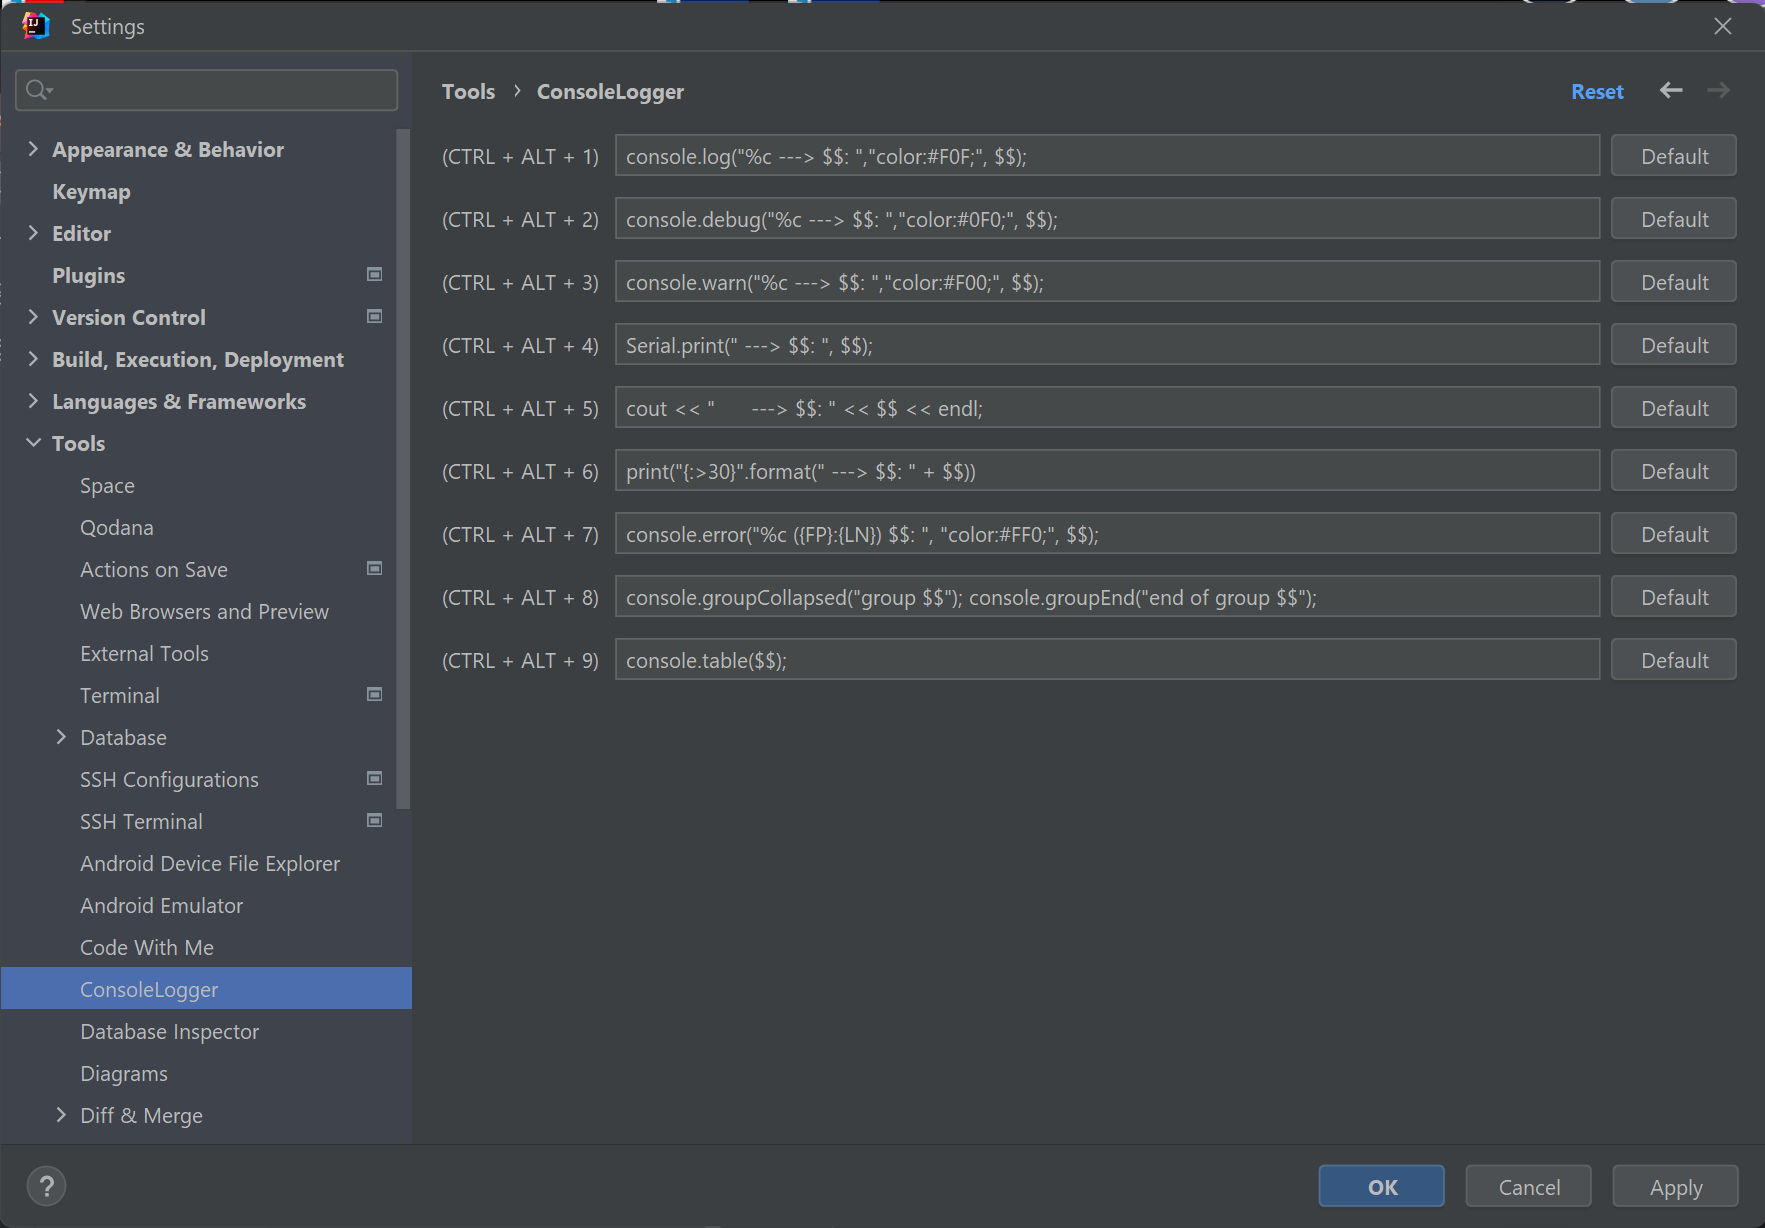
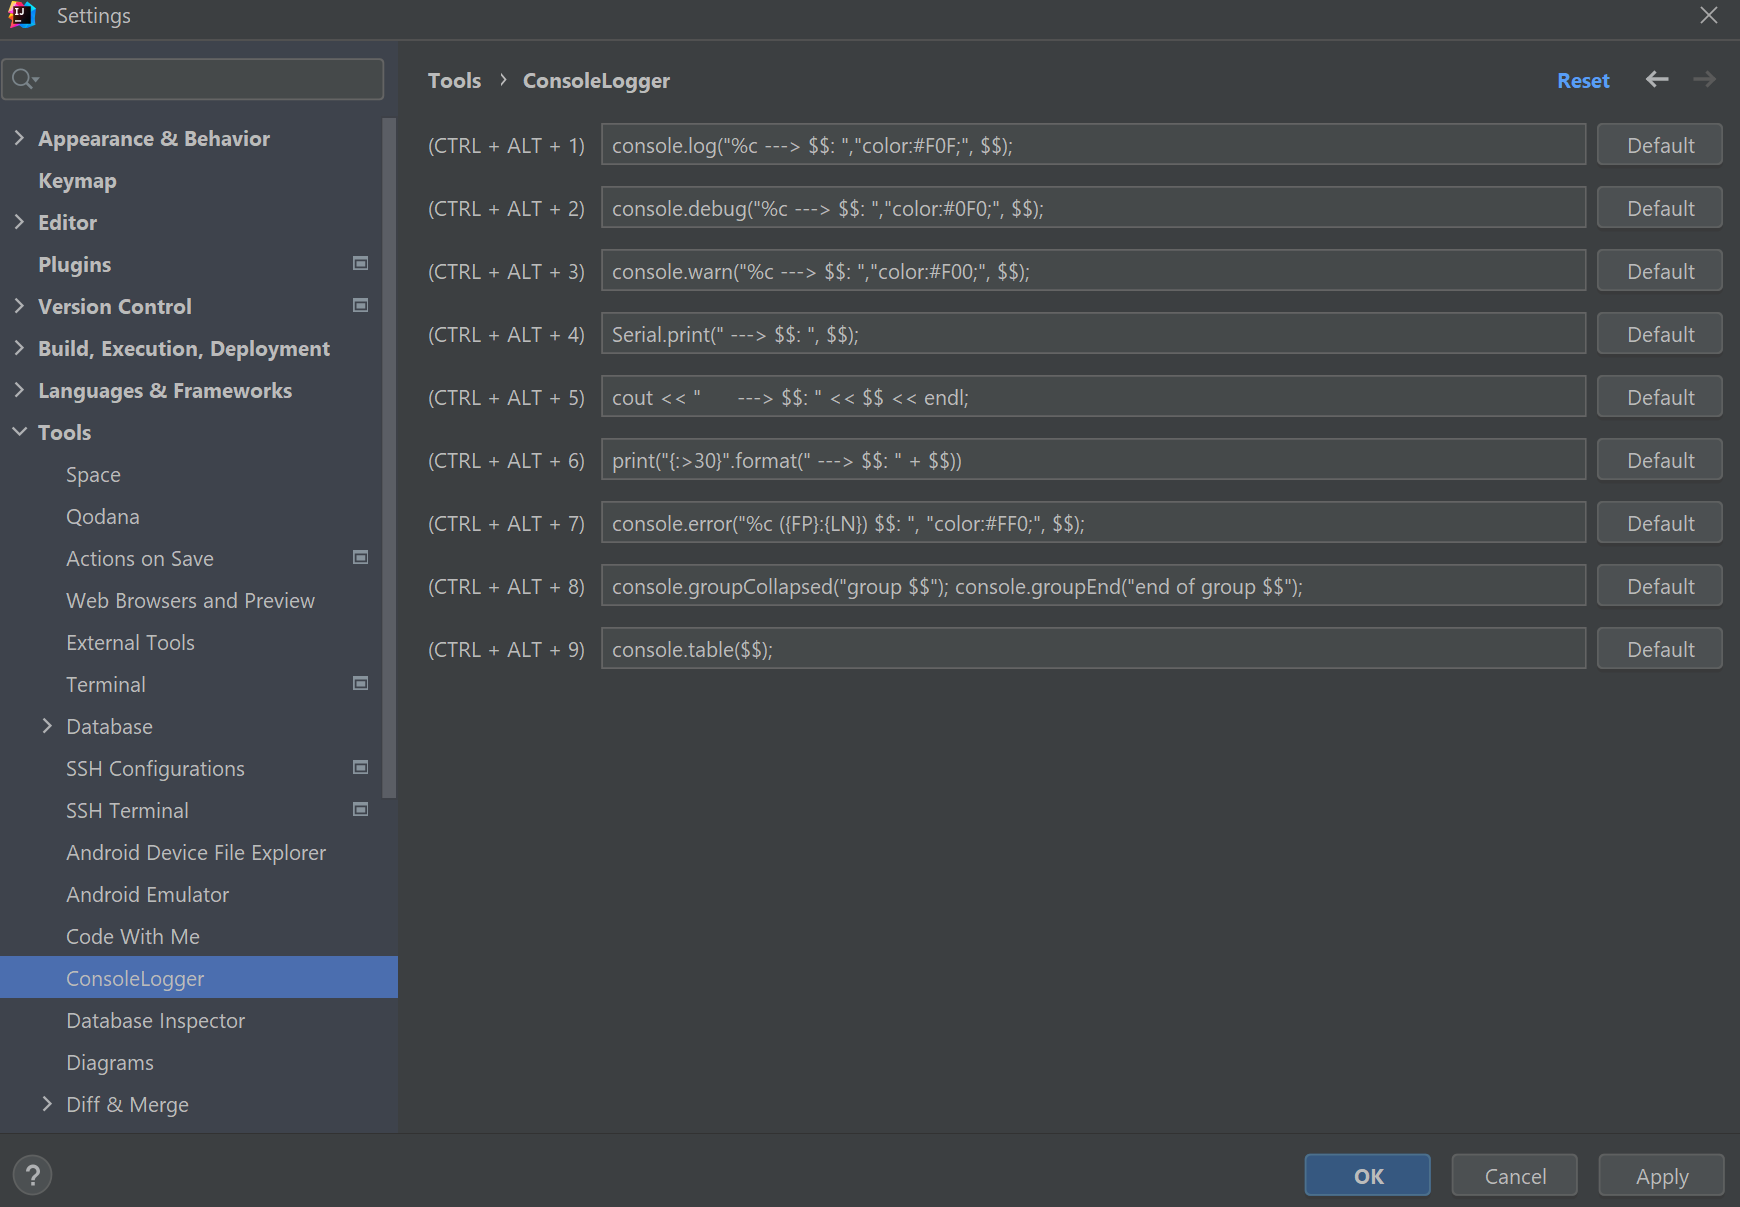
preview added

diff --git a/README.md b/README.md
@@ -25,5 +25,5 @@ Defaults for CTRL + ALT + (1-9)
 #### `(CTRL + ALT + 0)`  
 #### [<img src="https://github.com/bg-omar/consolelogger/blob/master/.github/pics/preview6.png?raw=true" width="30%"/>]()  
 ### `Settings` -> `Tools` -> `ConsoleLogger`  
-#### [<img src="https://github.com/bg-omar/consolelogger/blob/master/.github/pics/SettingsPreview.png?raw=true" width="90%"/>]()  
+#### [<img src="https://github.com/bg-omar/consolelogger/blob/master/.github/pics/SettingPreview.png?raw=true" width="90%"/>]()  
 <!-- Plugin description end -->
